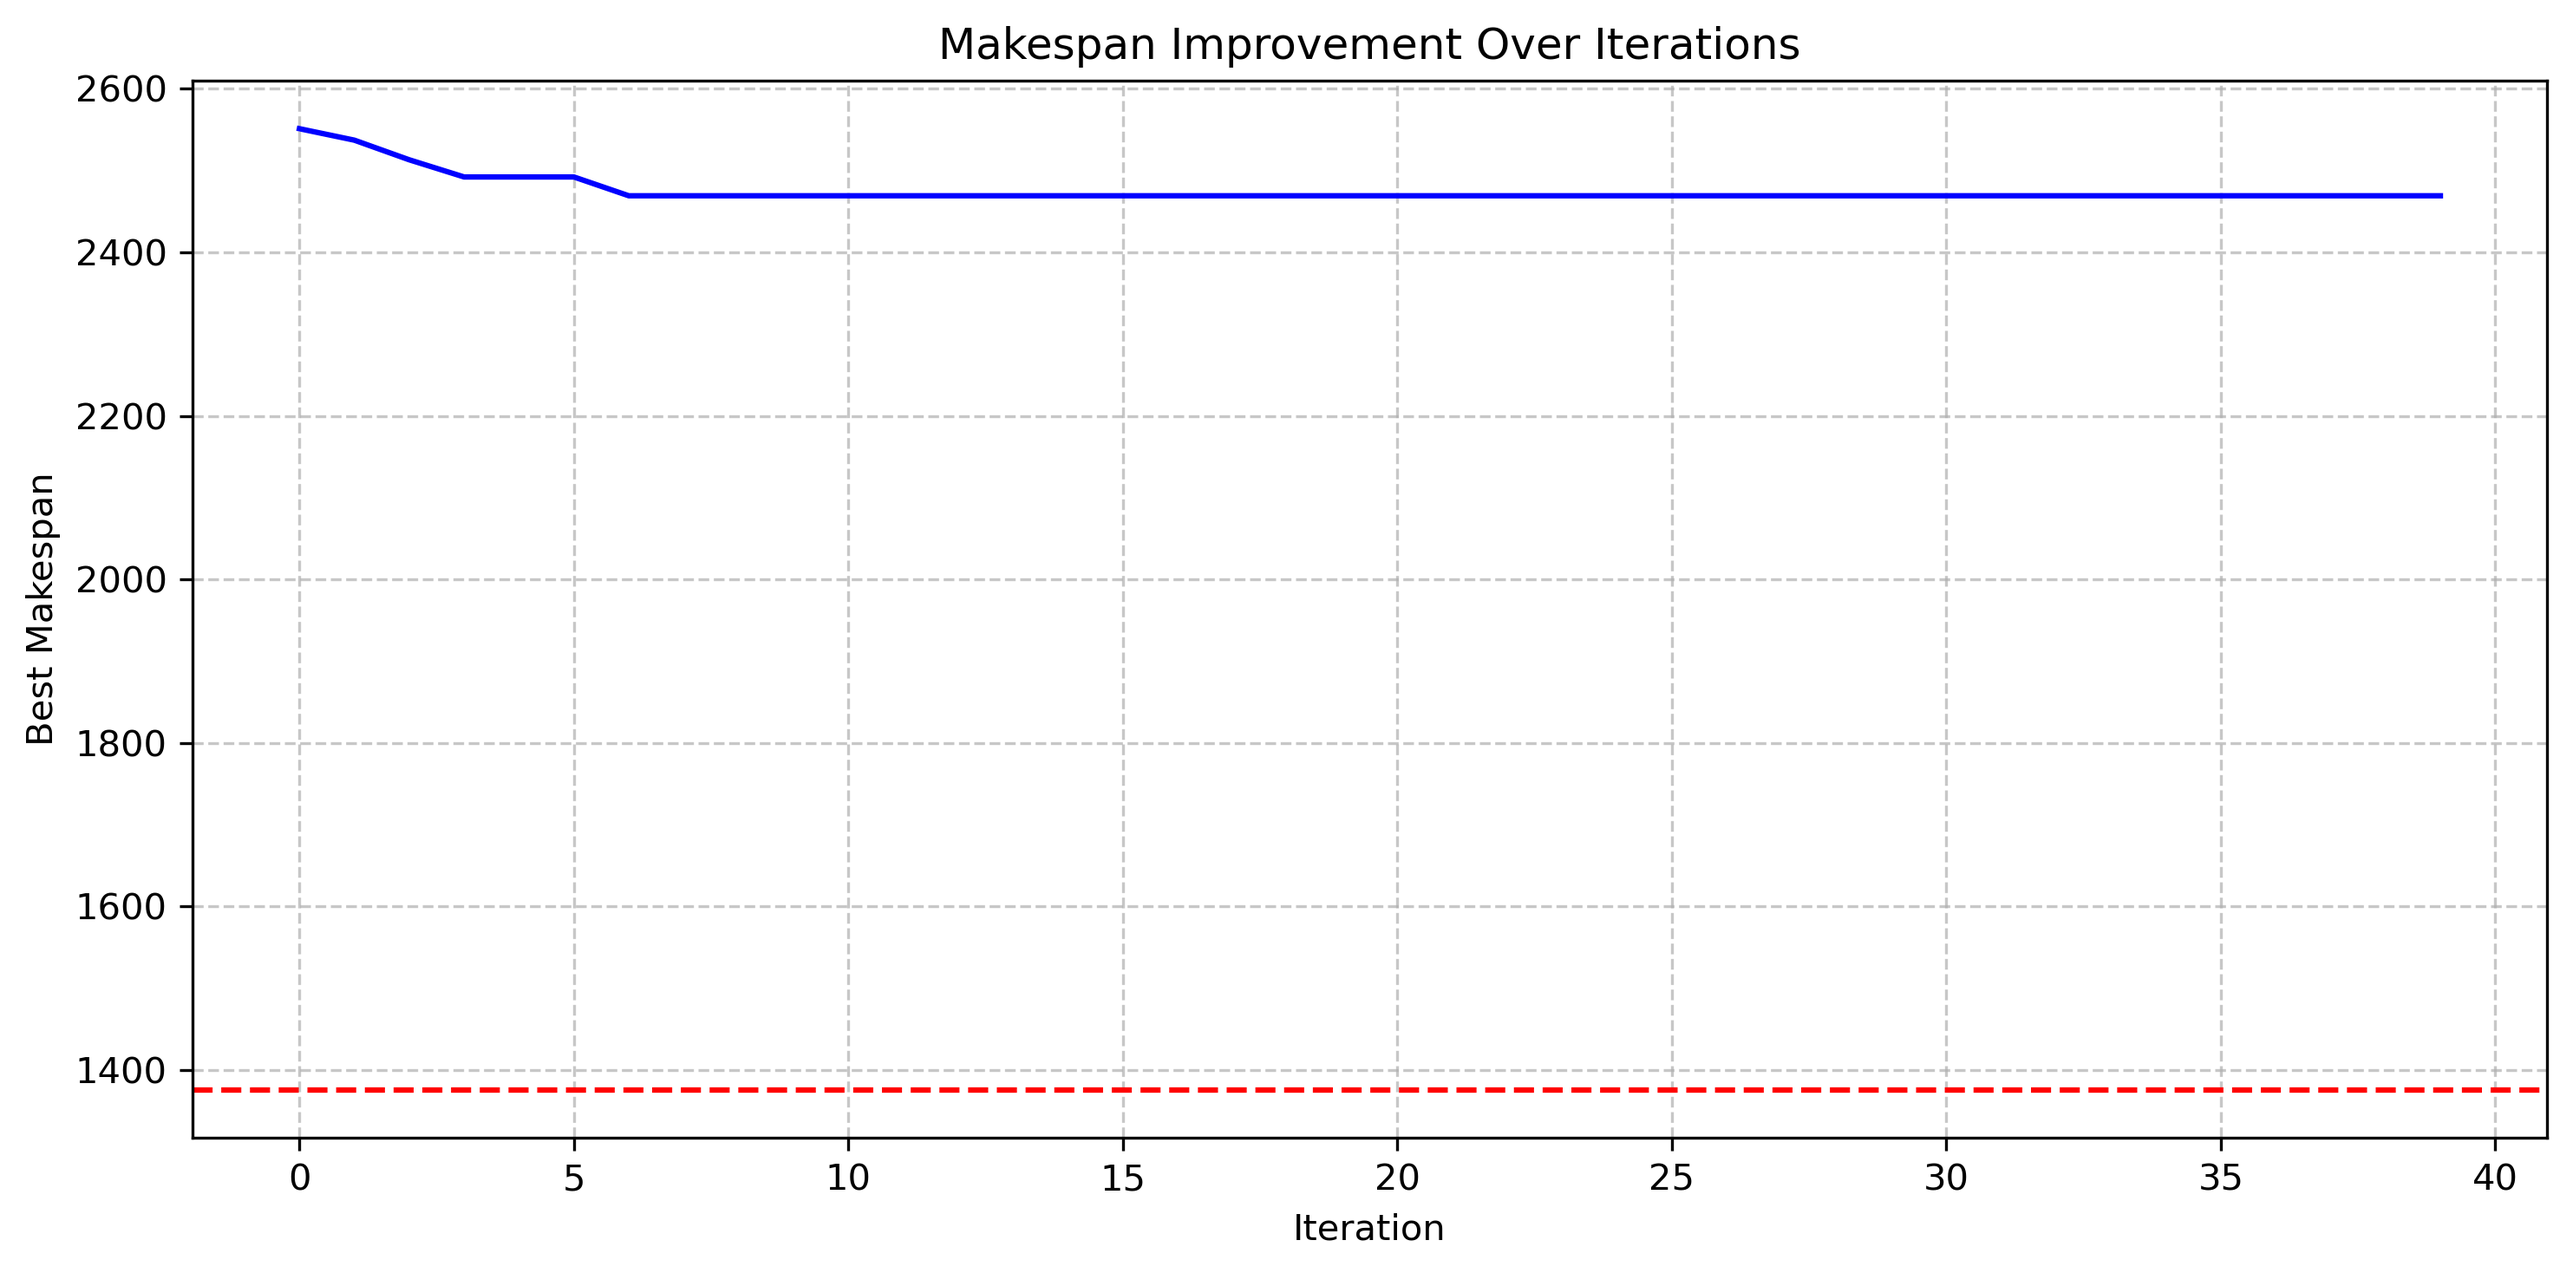
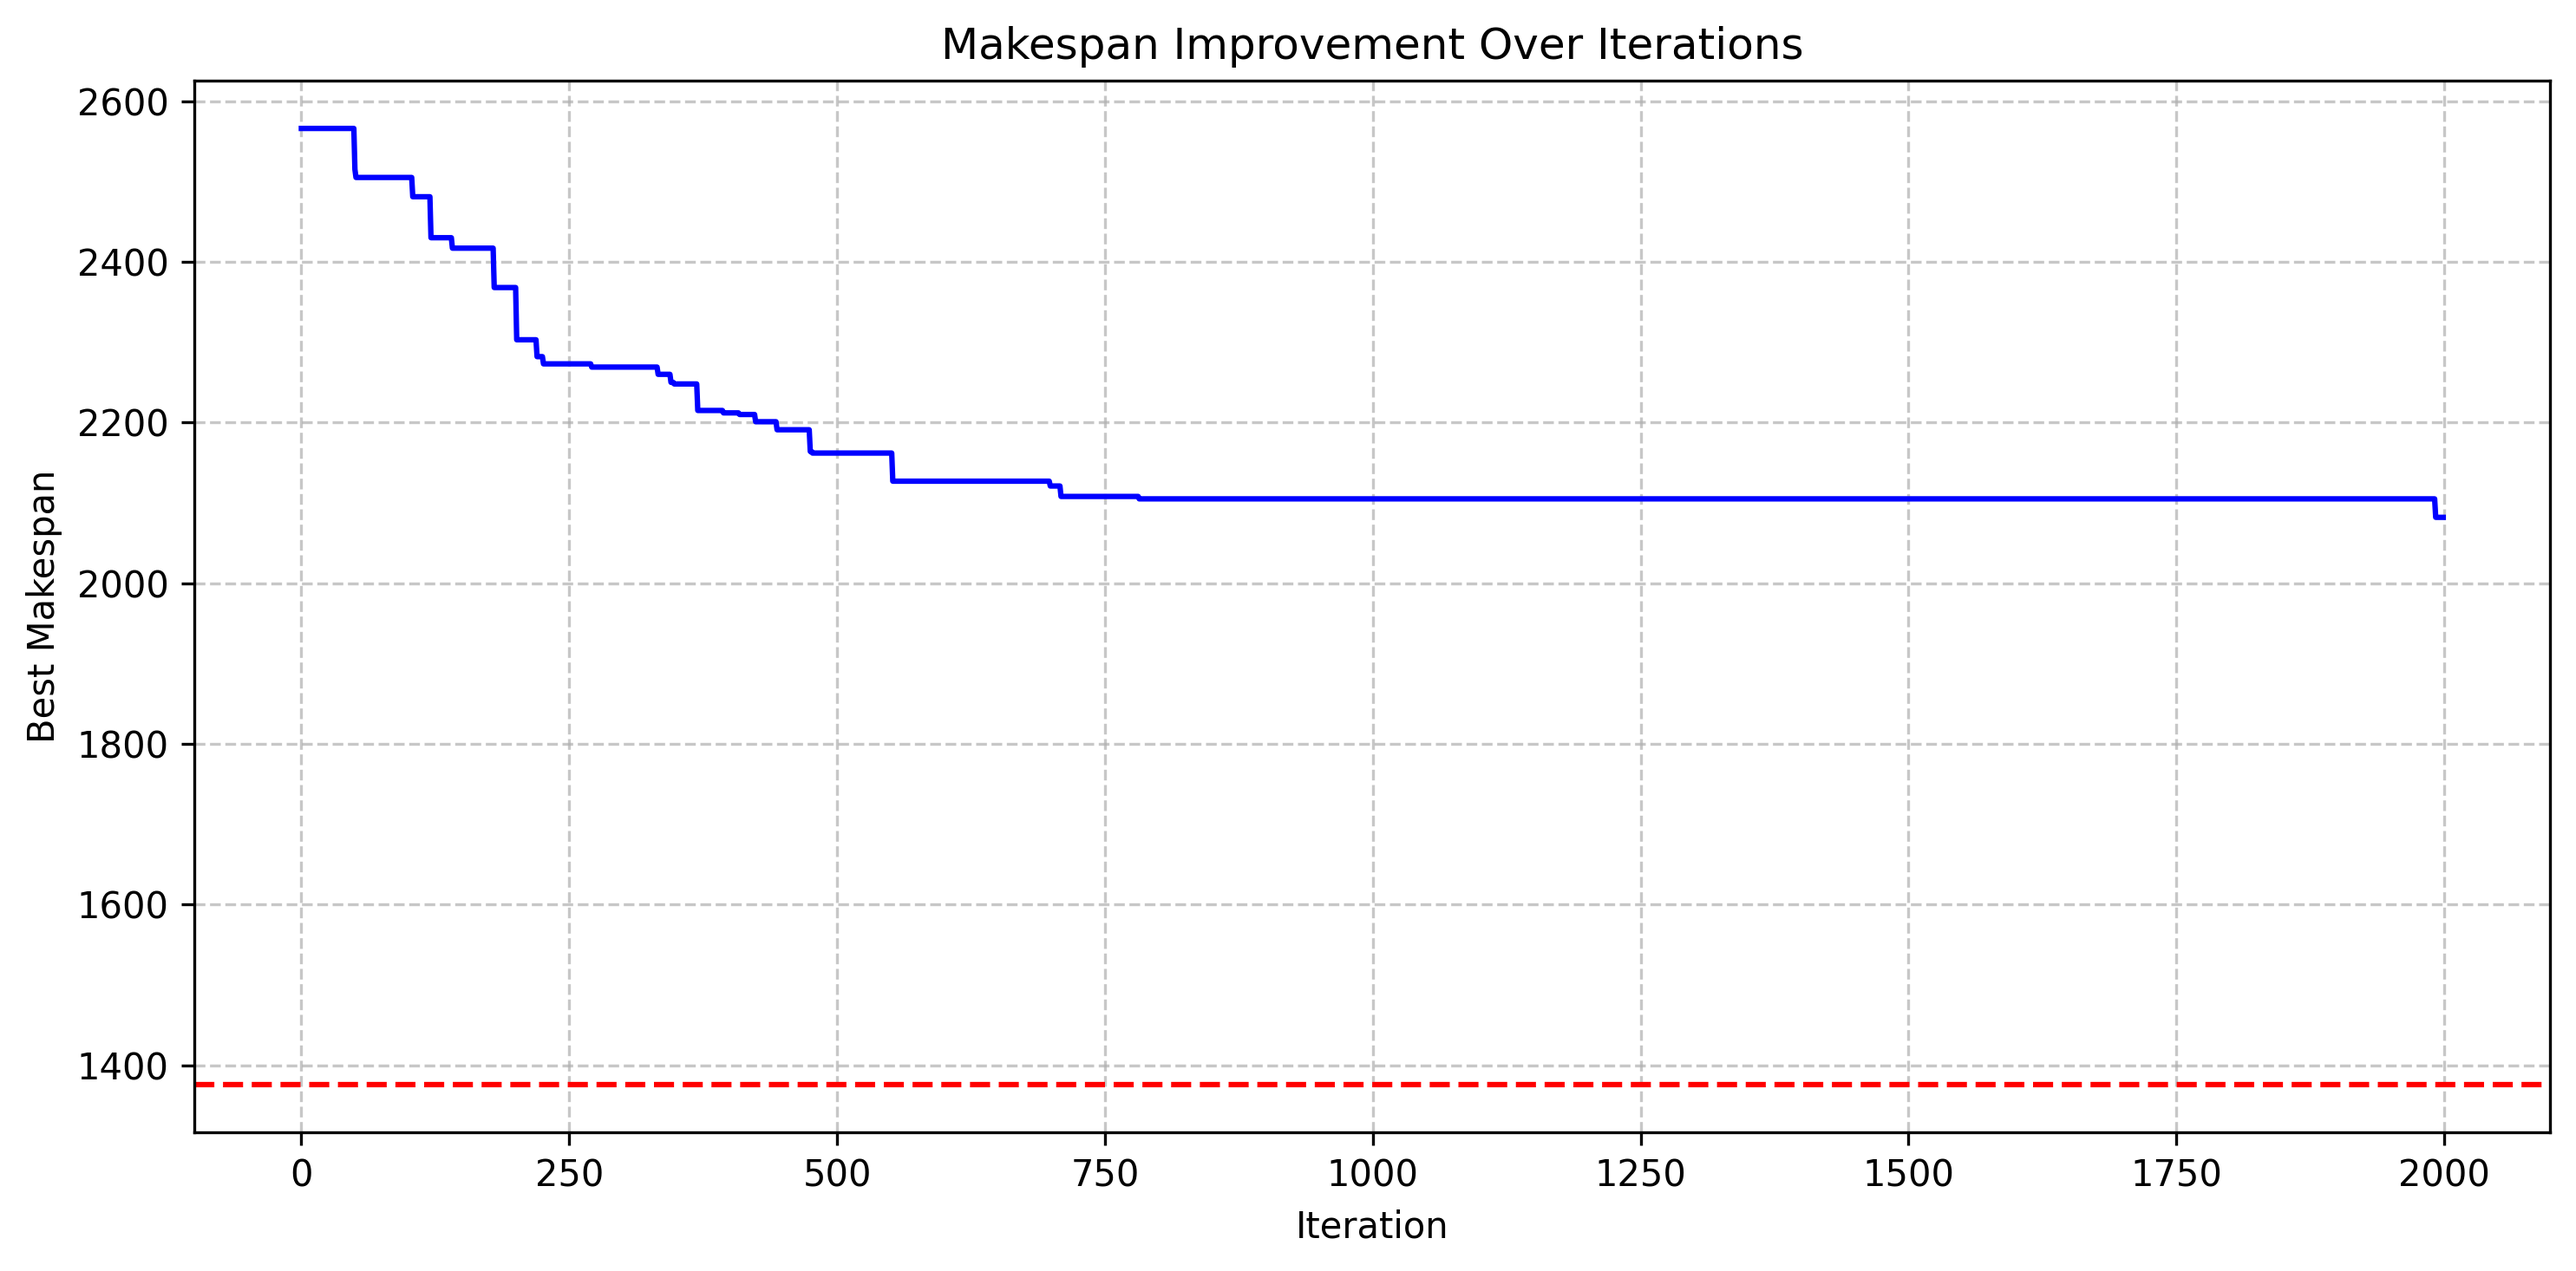
📝 Best paramaters calcultaed

diff --git a/run_grid_search.py b/run_grid_search.py
@@ -3,7 +3,7 @@ from src.modules.gridSearch import PSOGridSearch
 
 def main():
     # Configuration
-    max_iter = 300  # Number of iterations for each PSO run
+    max_iter = 2000  # Number of iterations for each PSO run
     dataset_folder = (
         "src/data/processed/data_20j_15m"  # Folder containing your JSSP instance files
     )
@@ -22,13 +22,13 @@ def main():
     # Optional: Customize parameter grid if needed
     grid_search.set_parameter_grid(
         {
-            "num_particles": [20, 30, 50, 70, 100],  # Specific values
+            "num_particles": [20, 30, 50],  # Specific values
             "w": (0.4, 0.9),  # Range
             "c1": [0.5, 1, 1.5, 2],  # Fixed value
             "c2": [0.5, 1, 1.5, 2],  # Fixed value
             "mutation_rate": [0.1, 0.2, 0.3],  # Fixed
-            "max_stagnation": [30],
-            "early_stopping_window": [100],  # Fixed
+            "max_stagnation": [20],
+            "early_stopping_window": [None],  # Fixed
             "improvement_threshold": [0.005],
         },
     )

diff --git a/main.py b/main.py
@@ -9,14 +9,14 @@ if __name__ == "__main__":
             dataset_path = os.path.join(dataset_folder, filename)
             processor = JSSPProcessor(dataset_path)
             best_schedule, best_makespan, exec_time = processor.run(
-                num_particles=100,
-                max_iter=300,
-                w=0.7,
-                c1=1.5,
-                c2=1.5,
+                num_particles=20,
+                max_iter=2000,
+                w=0.5,
+                c1=1,
+                c2=2,
                 adaptive_params=True,
                 mutation_rate=0.2,
-                max_stagnation=40,
-                early_stopping_window=40,
-                improvement_threshold=0.01,
+                max_stagnation=20,
+                early_stopping_window=None,
+                improvement_threshold=0.05,
             )
